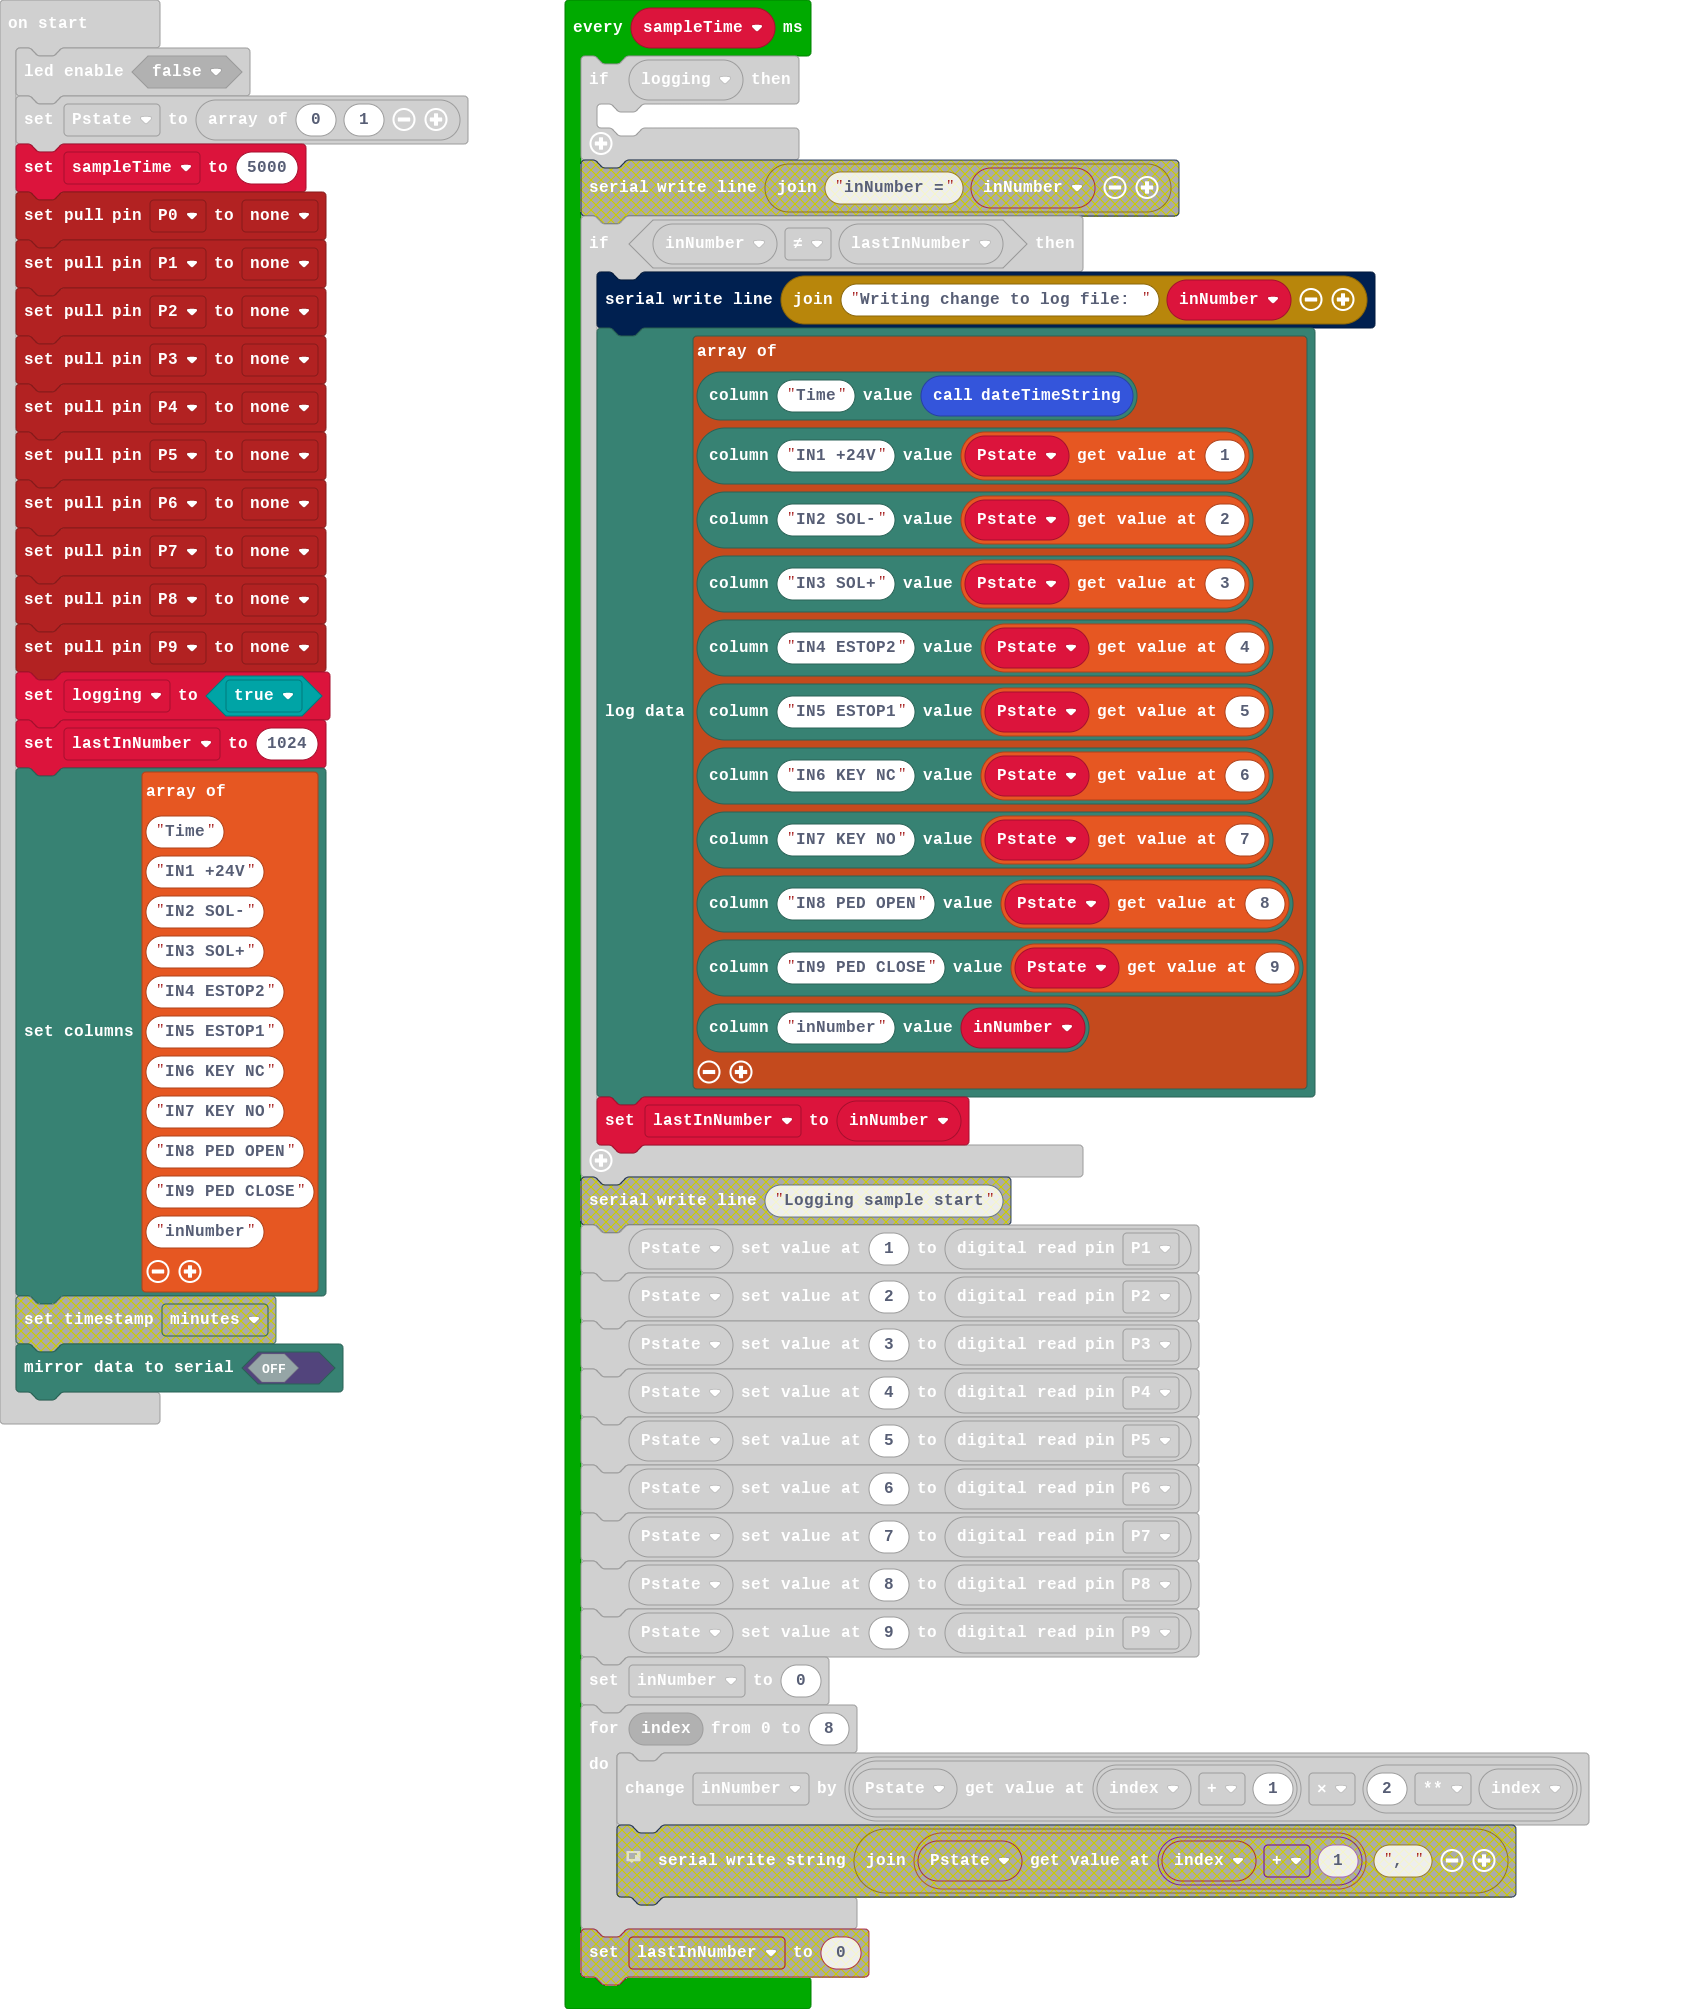
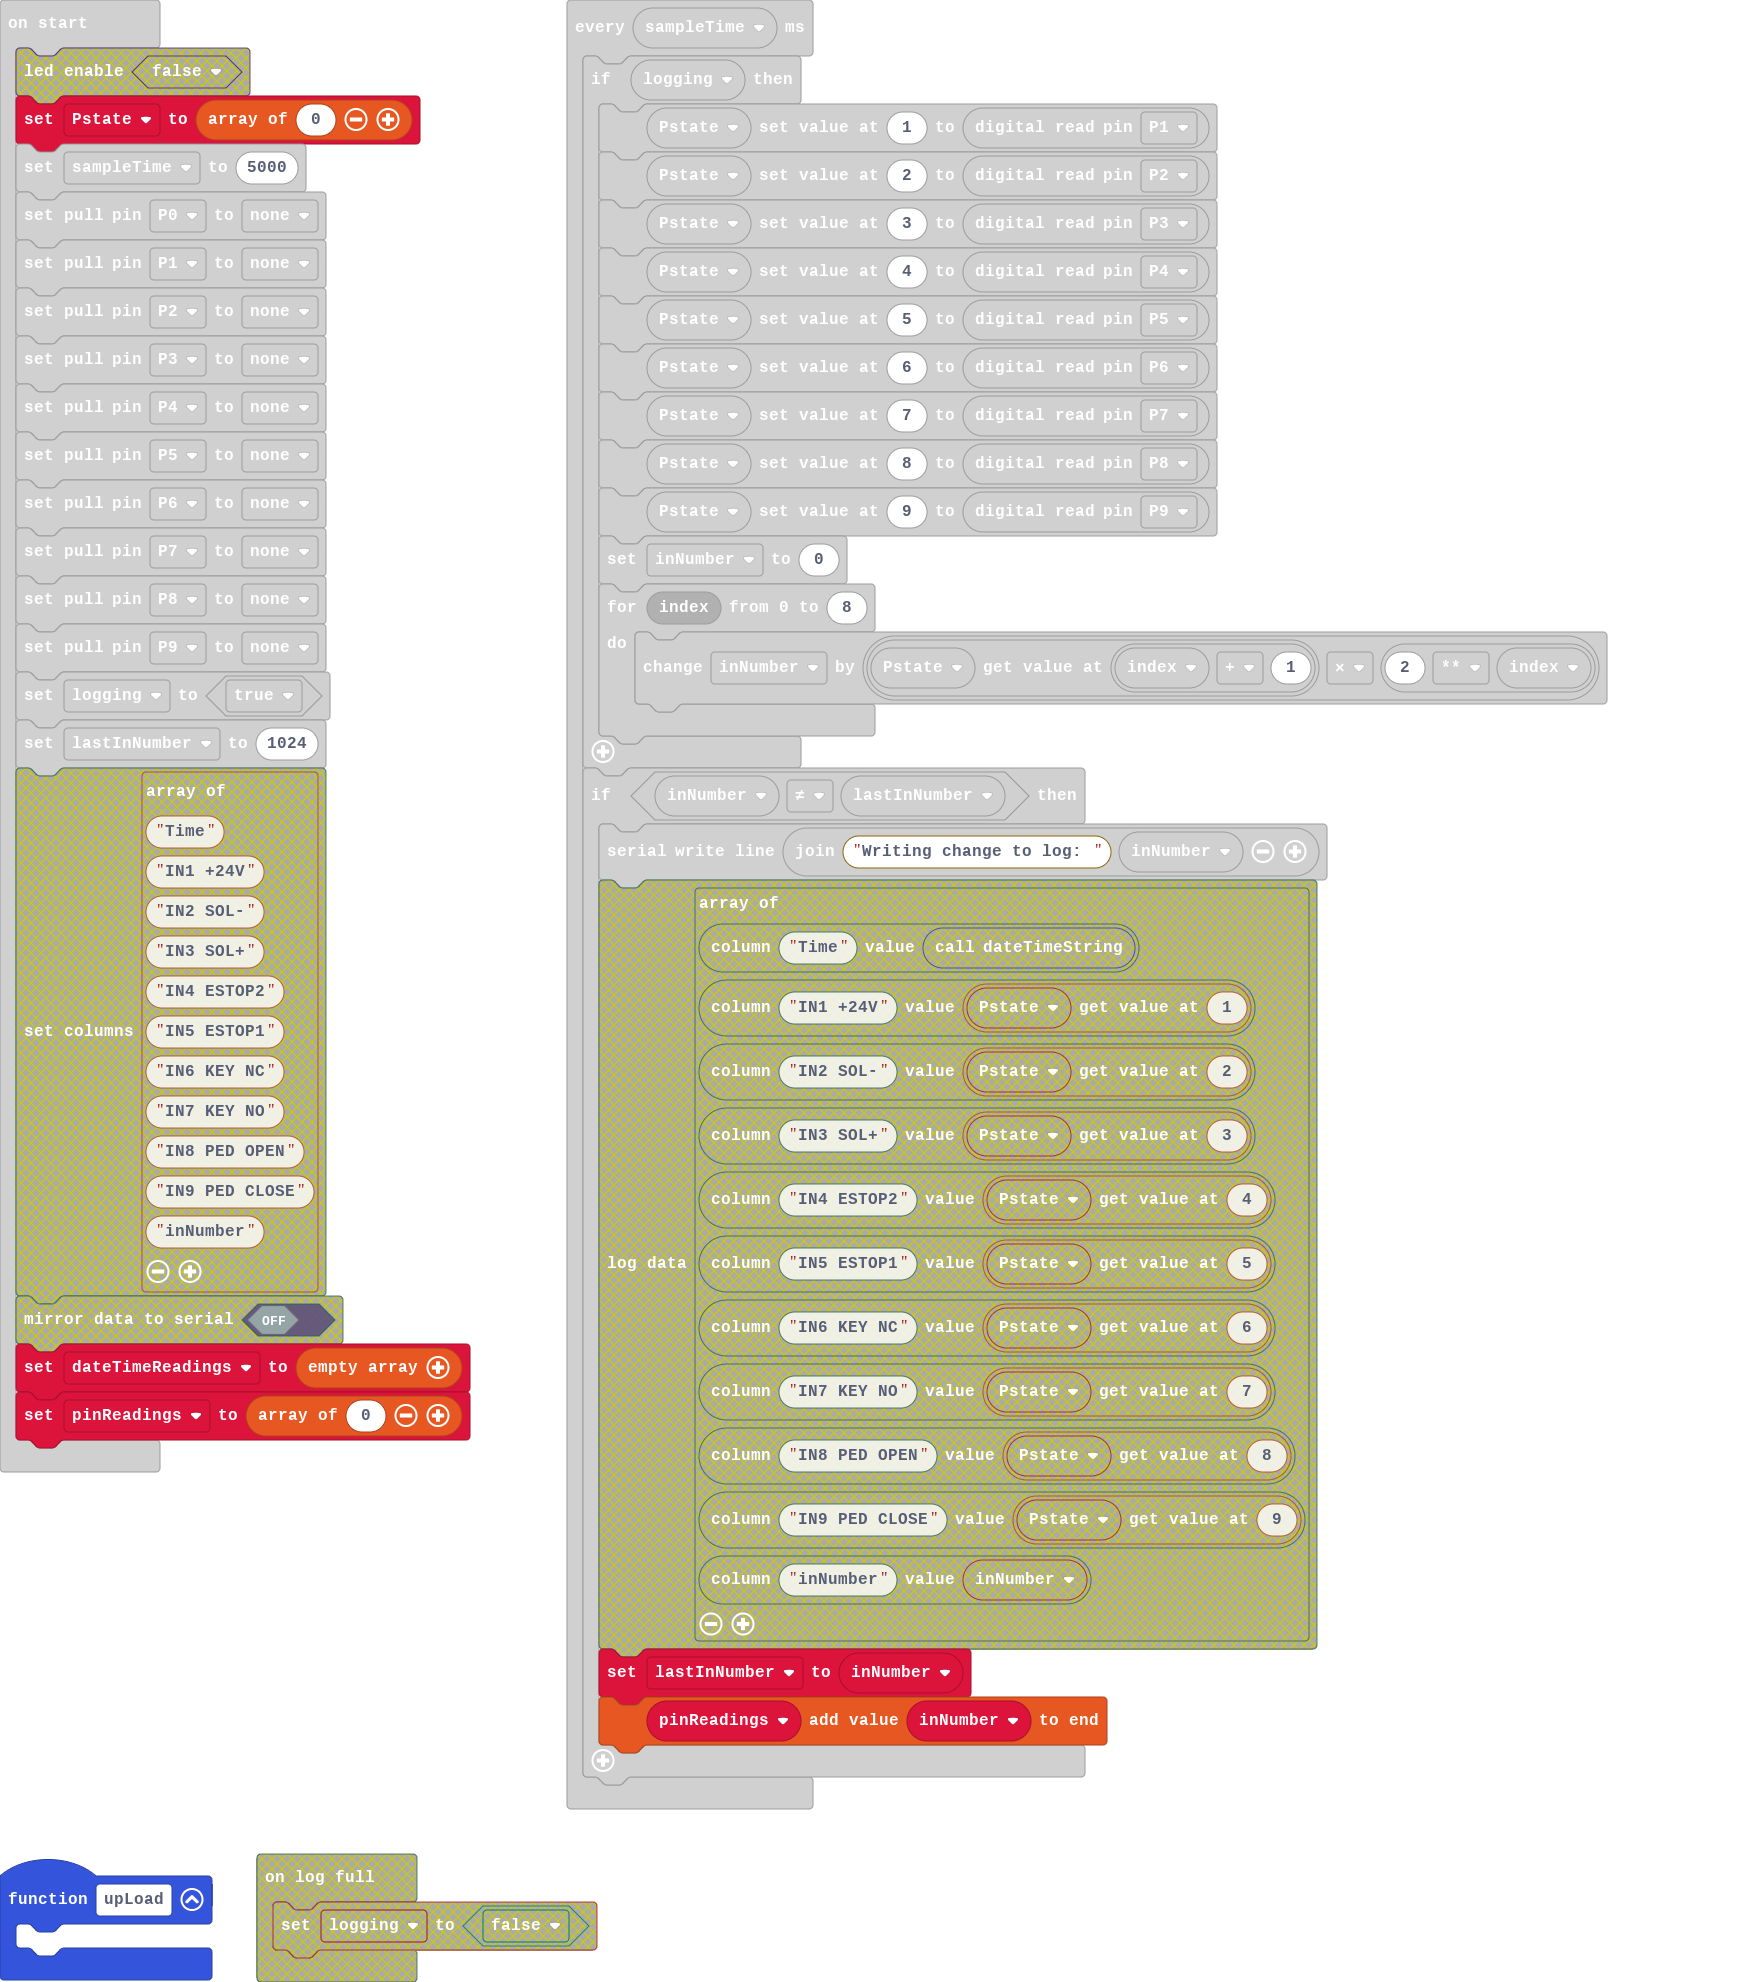
abandoned data logger extension, go back to BT and USB

diff --git a/main.ts b/main.ts
@@ -13,15 +13,15 @@ function parseCommand () {
         serial.writeLine("Invalid command")
     }
 }
-datalogger.onLogFull(function () {
-    logging = false
-})
 function leadingZero (num: number) {
     if (num < 10) {
         return "0" + num
     } else {
         return convertToText(num)
     }
+}
+function upLoad () {
+	
 }
 function dateTimeString () {
     return "" + leadingZero(DS3231.date()) + "/" + leadingZero(DS3231.month()) + "/" + DS3231.year() + " " + leadingZero(DS3231.hour()) + ":" + leadingZero(DS3231.minute())
@@ -45,18 +45,16 @@ function setTime () {
     serial.writeLine("Date & time have been set ")
 }
 let inNumber = 0
-let charIn = ""
-let mm = ""
-let hh = ""
-let dt = ""
-let mo = ""
-let yr = ""
-let params = ""
-let stringIn = ""
-let command = ""
-let logging = false
-led.enable(false)
-let Pstate = [0, 1]
+let charIn: string = []
+let mm: string = []
+let hh: string = []
+let dt: string = []
+let mo: string = []
+let yr: string = []
+let params: string = []
+let stringIn: string = []
+let command: string = []
+let Pstate = [0]
 let sampleTime = 5000
 pins.setPull(DigitalPin.P0, PinPullMode.PullNone)
 pins.setPull(DigitalPin.P1, PinPullMode.PullNone)
@@ -68,22 +66,10 @@ pins.setPull(DigitalPin.P6, PinPullMode.PullNone)
 pins.setPull(DigitalPin.P7, PinPullMode.PullNone)
 pins.setPull(DigitalPin.P8, PinPullMode.PullNone)
 pins.setPull(DigitalPin.P9, PinPullMode.PullNone)
-logging = true
+let logging = true
 let lastInNumber = 1024
-datalogger.setColumns([
-"Time",
-"IN1 +24V",
-"IN2 SOL-",
-"IN3 SOL+",
-"IN4 ESTOP2",
-"IN5 ESTOP1",
-"IN6 KEY NC",
-"IN7 KEY NO",
-"IN8 PED OPEN",
-"IN9 PED CLOSE",
-"inNumber"
-])
-datalogger.mirrorToSerial(false)
+let dateTimeReadings: number[] = []
+let pinReadings = [0]
 basic.forever(function () {
     charIn = serial.readString()
     stringIn = "" + stringIn + charIn
@@ -92,7 +78,7 @@ basic.forever(function () {
         parseCommand()
         stringIn = ""
     } else {
-        serial.writeString(charIn)
+        serial.writeString("" + (charIn))
     }
 })
 loops.everyInterval(sampleTime, function () {
@@ -112,20 +98,8 @@ loops.everyInterval(sampleTime, function () {
         }
     }
     if (inNumber != lastInNumber) {
-        serial.writeLine("Writing change to log file: " + inNumber)
-        datalogger.logData([
-        datalogger.createCV("Time", dateTimeString()),
-        datalogger.createCV("IN1 +24V", Pstate[1]),
-        datalogger.createCV("IN2 SOL-", Pstate[2]),
-        datalogger.createCV("IN3 SOL+", Pstate[3]),
-        datalogger.createCV("IN4 ESTOP2", Pstate[4]),
-        datalogger.createCV("IN5 ESTOP1", Pstate[5]),
-        datalogger.createCV("IN6 KEY NC", Pstate[6]),
-        datalogger.createCV("IN7 KEY NO", Pstate[7]),
-        datalogger.createCV("IN8 PED OPEN", Pstate[8]),
-        datalogger.createCV("IN9 PED CLOSE", Pstate[9]),
-        datalogger.createCV("inNumber", inNumber)
-        ])
+        serial.writeLine("Writing change to log: " + inNumber)
+        pinReadings.push(inNumber)
         lastInNumber = inNumber
     }
 })
